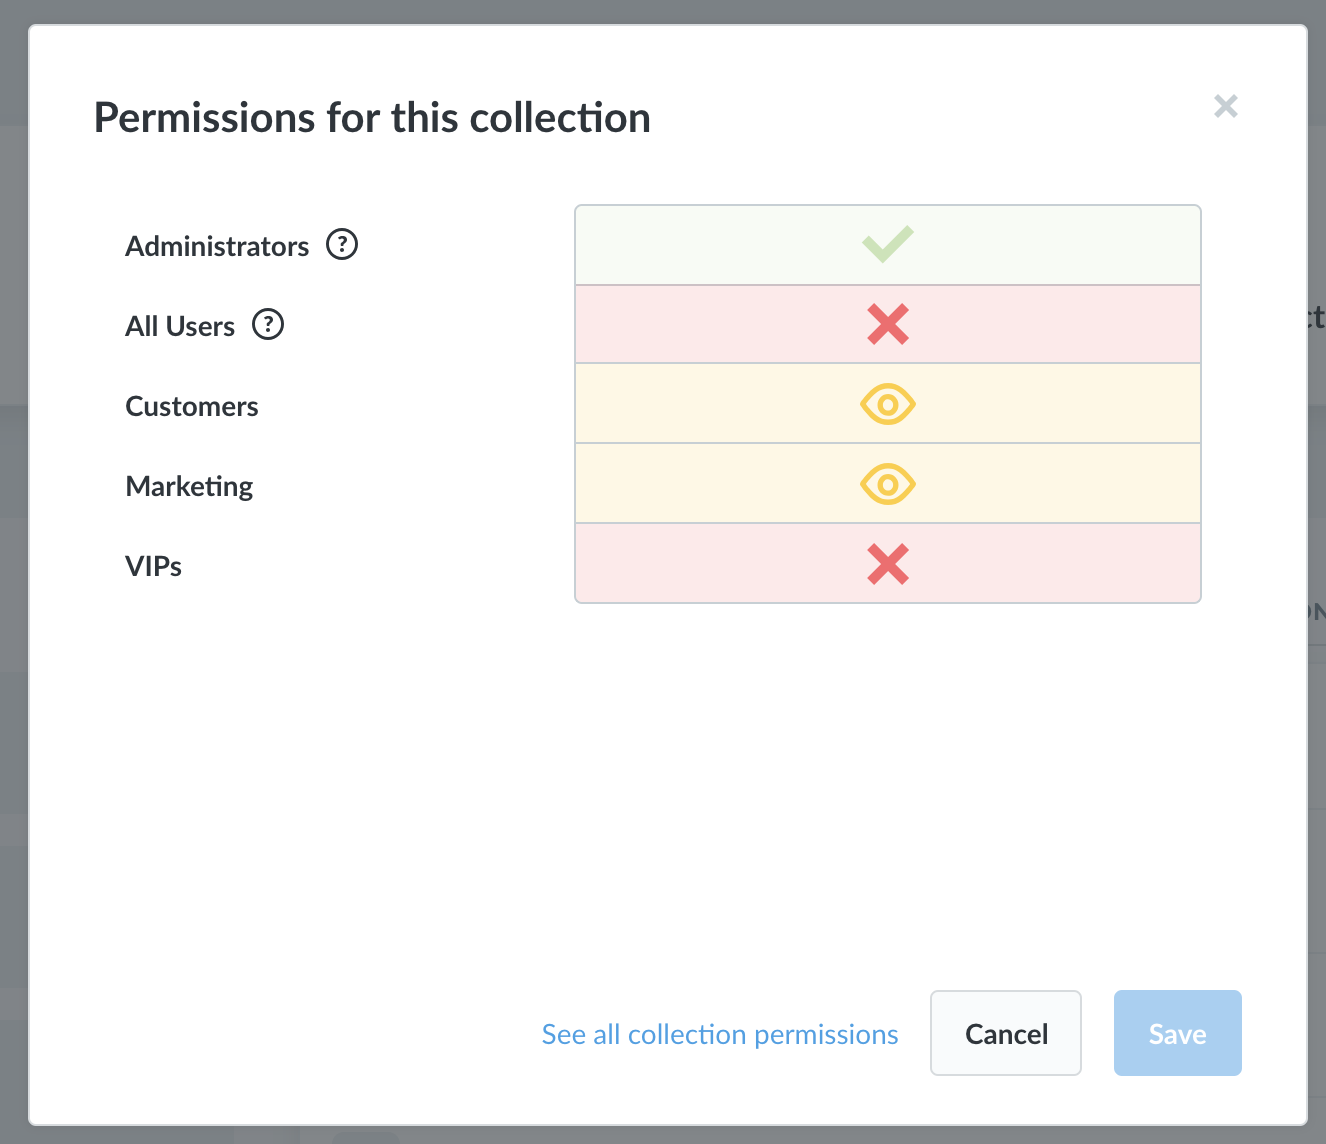
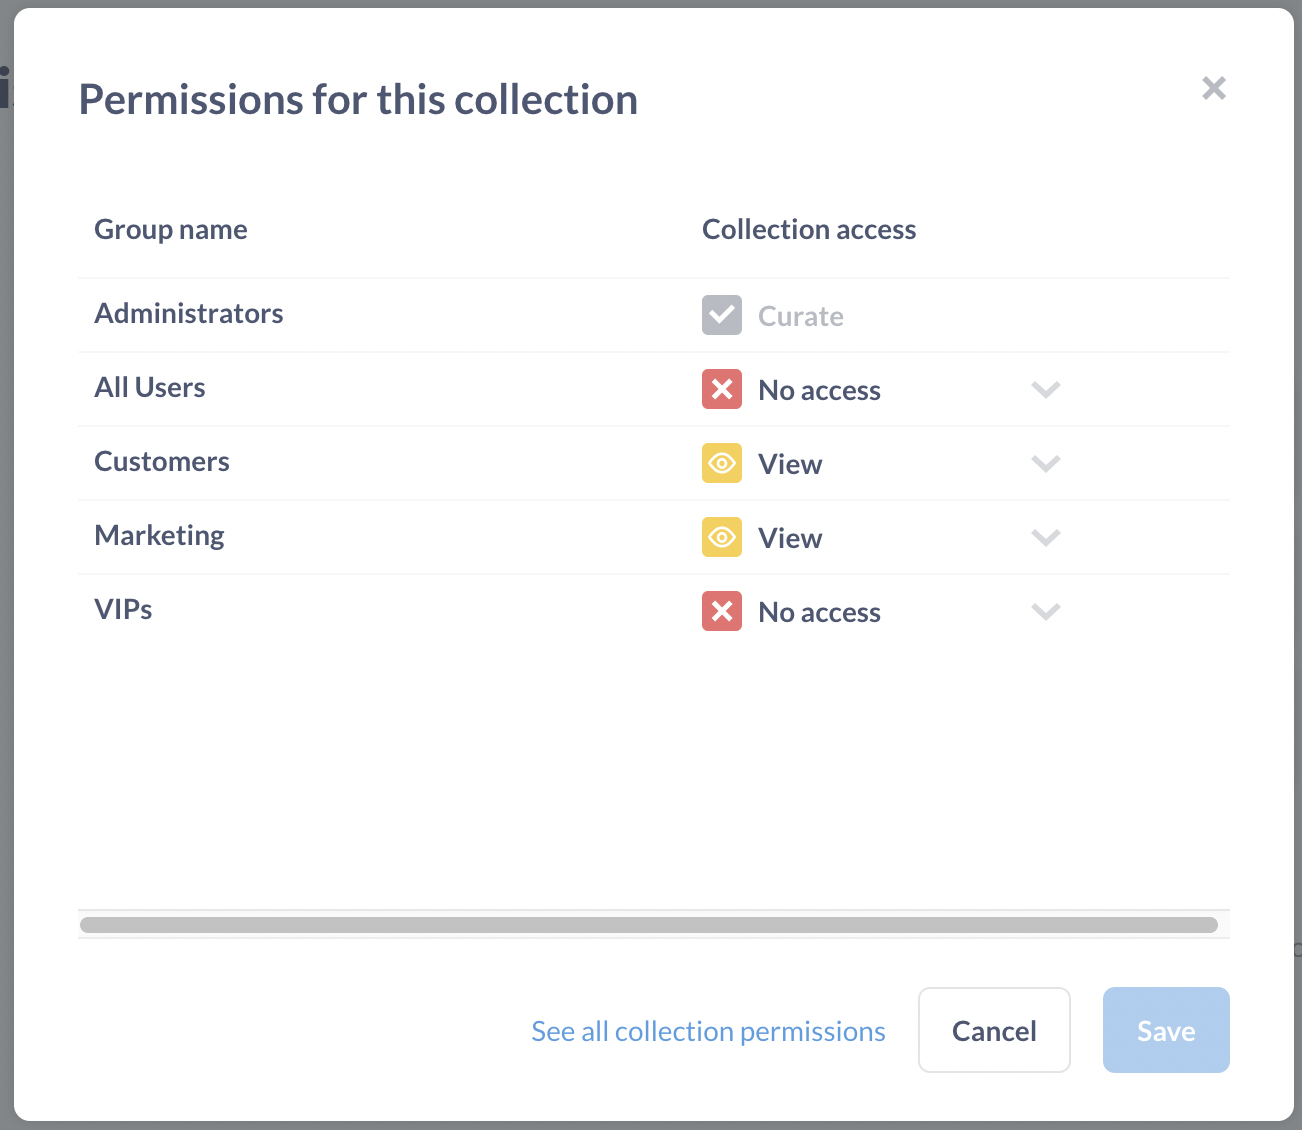
docs - fixed links and replaced screenshots (#19251)
* docs - fixed links and replaced screenshots

* Apply suggestions from code review

diff --git a/docs/administration-guide/06-collections.md b/docs/administration-guide/06-collections.md
@@ -22,11 +22,11 @@ By default, new collections will have the same permissions settings as the colle
 
 One great feature in Metabase is that you can pin the most important couple of items in each of your collections to the top. Pinning an item in a collection turns it into a big, eye-catching card that will help make sure that folks who are browsing your Metabase instance will always know what's most important.
 
-Any user with curate permissions for a collection can pin items in it, making it easy to delegate curation responsibilities to other members of your team. To pin something, you can either click and drag it to the top of the page, or click on its menu and choose the pin action. (Note that collections themselves can't be pinned.)
+Any user with curate permissions for a collection can pin items in it, making it easy to delegate curation responsibilities to other members of your team. To pin something, you can either click and drag it to the top of the page, or click on its menu and choose the pin action. Note that collections themselves can't be pinned, but if you're running [Metabase Pro or Enterprise Edition](https://www.metabase.com/pricing), admins can designate [Offical Collections][offical-collections].
 
 ### Setting permissions for collections
 
-Collection permissions are similar to [data access permissions](05-setting-permissions.md). Rather than going to the Admin Panel, you set permissions on collections by clicking on the lock icon in the top-right of the screen while viewing the collection and clicking on `Edit permissions`. Only Administrators can edit collection permissions. Each [user group](05-setting-permissions.md) can have either View, Curate, or No access to a collection:
+Collection permissions are similar to [data access permissions](05-setting-permissions.md). You can set permissions on collections by clicking on the lock icon in the top-right of the screen while viewing the collection and clicking on `Edit permissions`. Only Administrators can edit collection permissions. Each [user group](05-setting-permissions.md) can have either View, Curate, or No access to a collection:
 
 - **Curate access:** the user can edit, move, and archive items saved in this collection, and can save or move new items into it. They can also create new sub-collections within this collection. In order to archive a sub-collection within this collection, they'll need to have Curate access for it and any and all collections within it.
 - **View access:** the user can see all the questions, dashboards, and pulses in the collection. If the user does not have permission to view some or all of the questions included in a given dashboard or pulse then those questions will not be visible to them; but any questions that are saved in this collection _will_ be visible to them, _even if the user doesn't have access to the underlying data used to in the question._
@@ -34,9 +34,9 @@ Collection permissions are similar to [data access permissions](05-setting-permi
 
 ![Permissions](images/collections/collection-permissions.png)
 
-If you want to see the bigger picture of what permissions your user groups have for all your collections, just click the link that says `See all collection permissions`. You'll see a table with your user groups along the top and all your collections down along the left. Click the `View collections` link under any collection that contains more collections to zoom in and see its contents:
+If you want to see the bigger picture of what permissions your user groups have for all your collections, just click the link that says **See all collection permissions**, which takes you to the Admin Panel. You'll see a list of your collections down along the left, and clicking on any of those will bring up a list of each group's permission settings for that collection.
 
-![Full permissions grid](images/collections/permission-grid.png)
+![Collection Permissions](images/collections/admin-panel-collections.png)
 
 Just like with data access permissions, collection permissions are _additive_, meaning that if a user belongs to more than one group, if one of their groups has a more restrictive setting for a collection than another one of their groups, they'll be given the _more permissive_ setting. This is especially important to remember when dealing with the All Users group: since all users are members of this group, if you give the All Users group Curate access to a collection, then _all_ users will be given Curate access for that collection, even if they also belong to a group with _less_ access than that.
 
@@ -44,7 +44,7 @@ Just like with data access permissions, collection permissions are _additive_, m
 
 One nuance with how collections permissions work has to do with sub-collections. A user group can be given access to a collection located somewhere within one or more sub-collections _without_ having to have access to every collection "above" it. E.g., if a user group had access to the "Super Secret Collection" that's saved several layers deep within a "Marketing" collection that the group does _not_ have access to, the "Super Secret Collection" would show up at the top-most level that the group _does_ have access to.
 
-To learn more, check out our Learn article on [working with collection permissions][working-with-collection-permissions].
+To learn more, check out our Learn article on [working with collection permissions][collection-permissions].
 
 ### Personal collections
 
@@ -86,5 +86,16 @@ Pulses act a bit differently with regard to permissions. When a user creates a n
 
 Want to share certain dashboards or questions with the world? You can do that with [public links](12-public-links.md).
 
-
-[working-with-collection-permissisons]: /learn/permissions/collection-permissions.html
+[collections]: 06-collections.md
+[collection-permissions]: /learn/permissions/collection-permissions.html
+[dashboard-subscriptions]: ../users-guide/dashboard-subscriptions.md
+[data-permissions]: data-permissions.md
+[pulses]: ../users-guide/10-pulses.md
+[data-sandboxing]: ../enterprise-guide/data-sandboxes.md
+[offical-collections]: ../users-guide/collections.html#official-collections
+[permissions]: /learn/permissions/
+[sandbox-columns]: /learn/permissions/data-sandboxing-column-permissions.html
+[sandbox-rows]: /learn/permissions/data-sandboxing-row-permissions.html
+[slack-integration]: 09-setting-up-slack.md
+[sql-snippet-folders]: ../enterprise-guide/sql-snippets.md
+[table-permissions]: data-permissions.md#table-permissions
